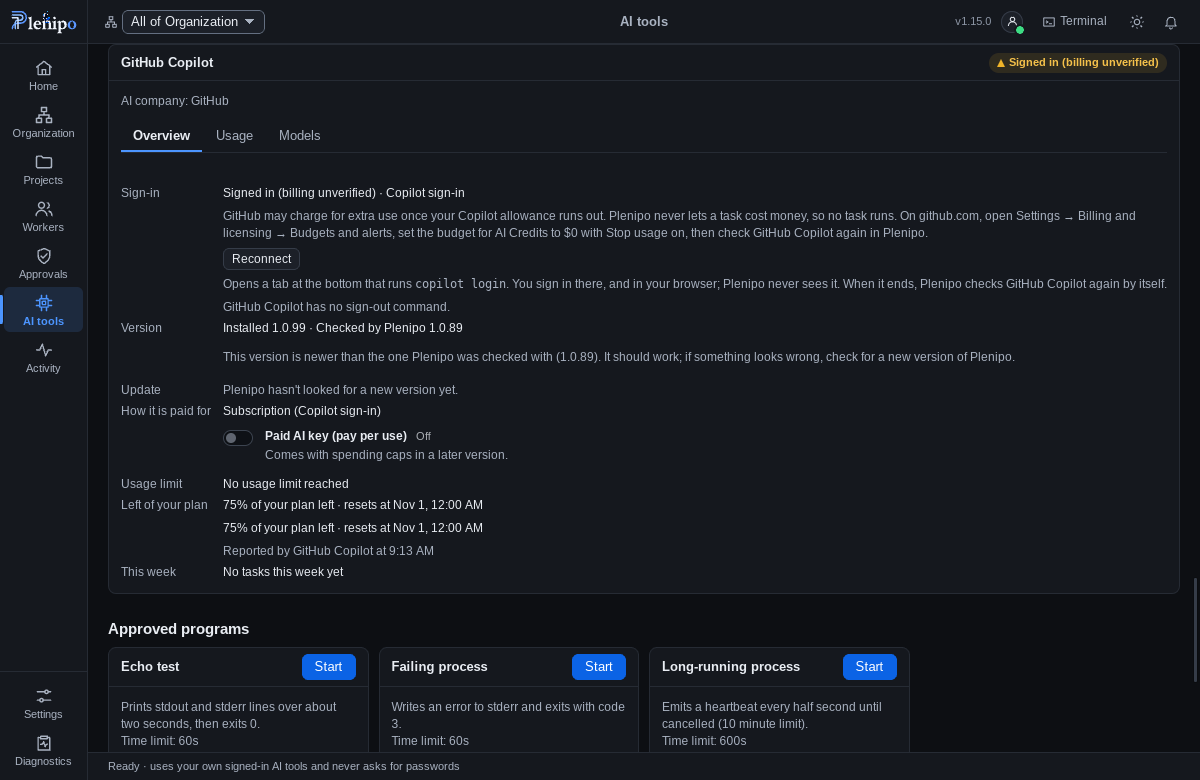
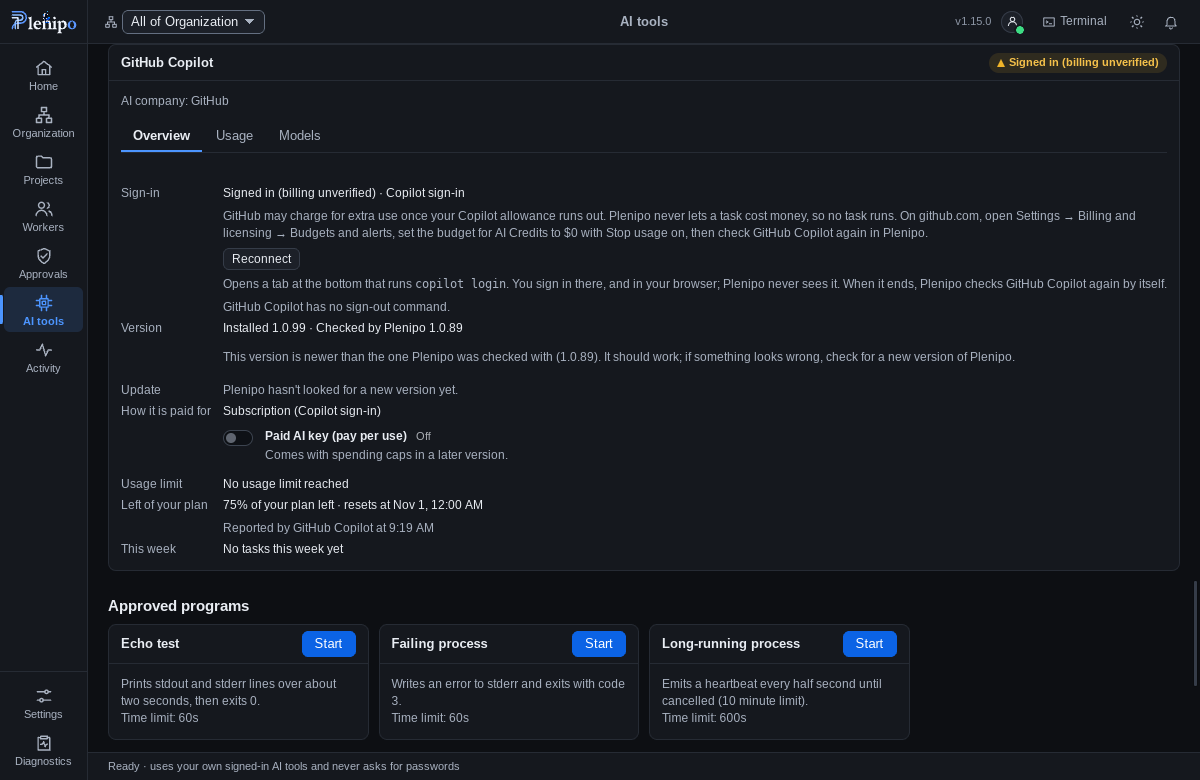
docs(phase-16): screenshots after the plan-left fix; the end-to-end count
Claude-Session: https://claude.ai/code/session_01BEfvovfBBcCGCaJuPyFAmd

diff --git a/docs/phases/phase-16-wave-2-acceptance-report.md b/docs/phases/phase-16-wave-2-acceptance-report.md
@@ -4,7 +4,7 @@
 | ------------ | -------------------------------------------------------------------------------------------------------------------------------------------------------------------------------------------------------------------------------------------------------------------------------------------------------------------------------------------------------------------------- |
 | **Phase**    | 16 — Every AI Model Worth Having, **Wave 2** ("one AI tool, one decision record each")                                                                                                                                                                                                                                                                                     |
 | **Branch**   | `claude/laughing-archimedes-1s9onb` ([PR #109](https://github.com/Seckcey/plenipo/pull/109))                                                                                                                                                                                                                                                                               |
-| **Verified** | Locally on Linux: `pnpm check`, `cargo fmt`, `cargo clippy -D warnings`, `cargo test --workspace`, `pnpm bindings` (no diff), and the end-to-end tests for the AI tools page and AI workers against the release build (section 3). GitHub CI on PR #109, Windows included.                                                                                                 |
+| **Verified** | Locally on Linux: `pnpm check`, `cargo fmt`, `cargo clippy -D warnings`, `cargo test --workspace`, `pnpm bindings` (no diff), and the end-to-end tests for the AI tools page and AI workers against the release build (21 of 21 passed; section 3). GitHub CI on PR #109, Windows included.                                                                                |
 | **Date**     | 2026-09-30 (Pacific time)                                                                                                                                                                                                                                                                                                                                                  |
 | **Result**   | GitHub Copilot built (ADR-083, proposed, built with the owner's three answers); Cursor's agent a written finding (ADR-084, accepted). Every Wave 2 test the owner listed passes. Version **1.15.0**. A review of four areas, each finding checked by a second reviewer, is done (section 5). The walk-through with the real Copilot on Windows is the owner's (section 6). |
 
